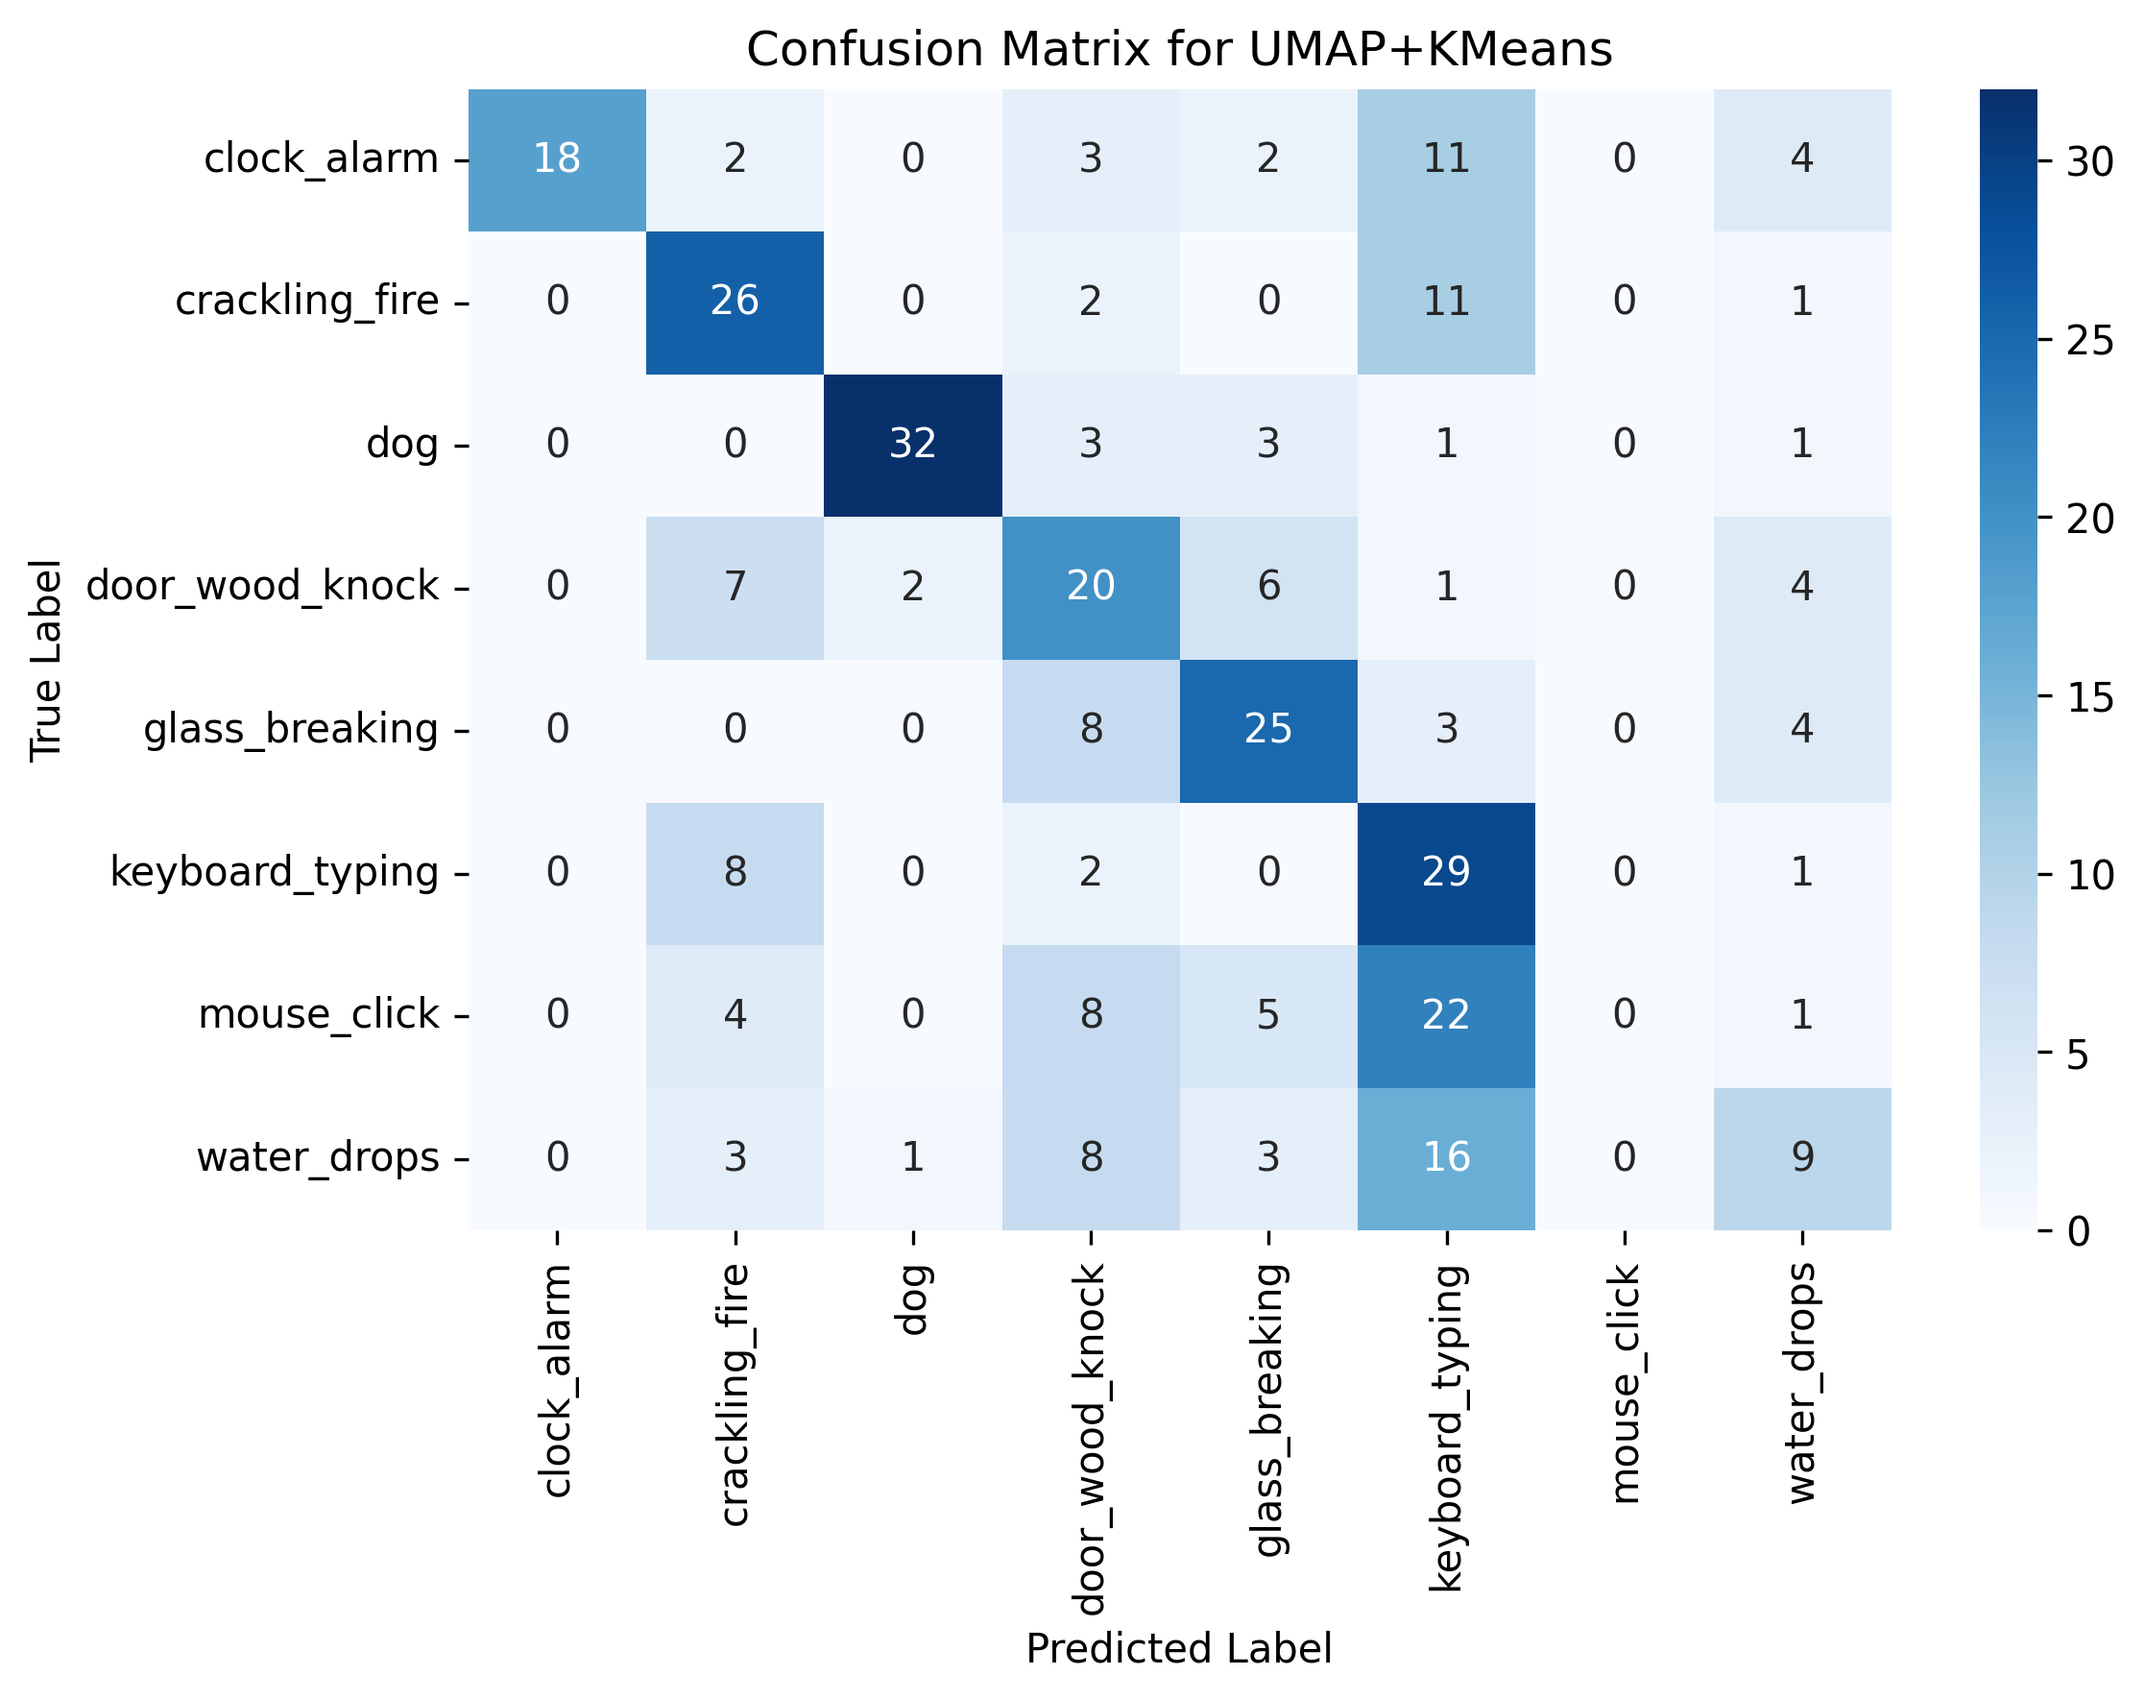
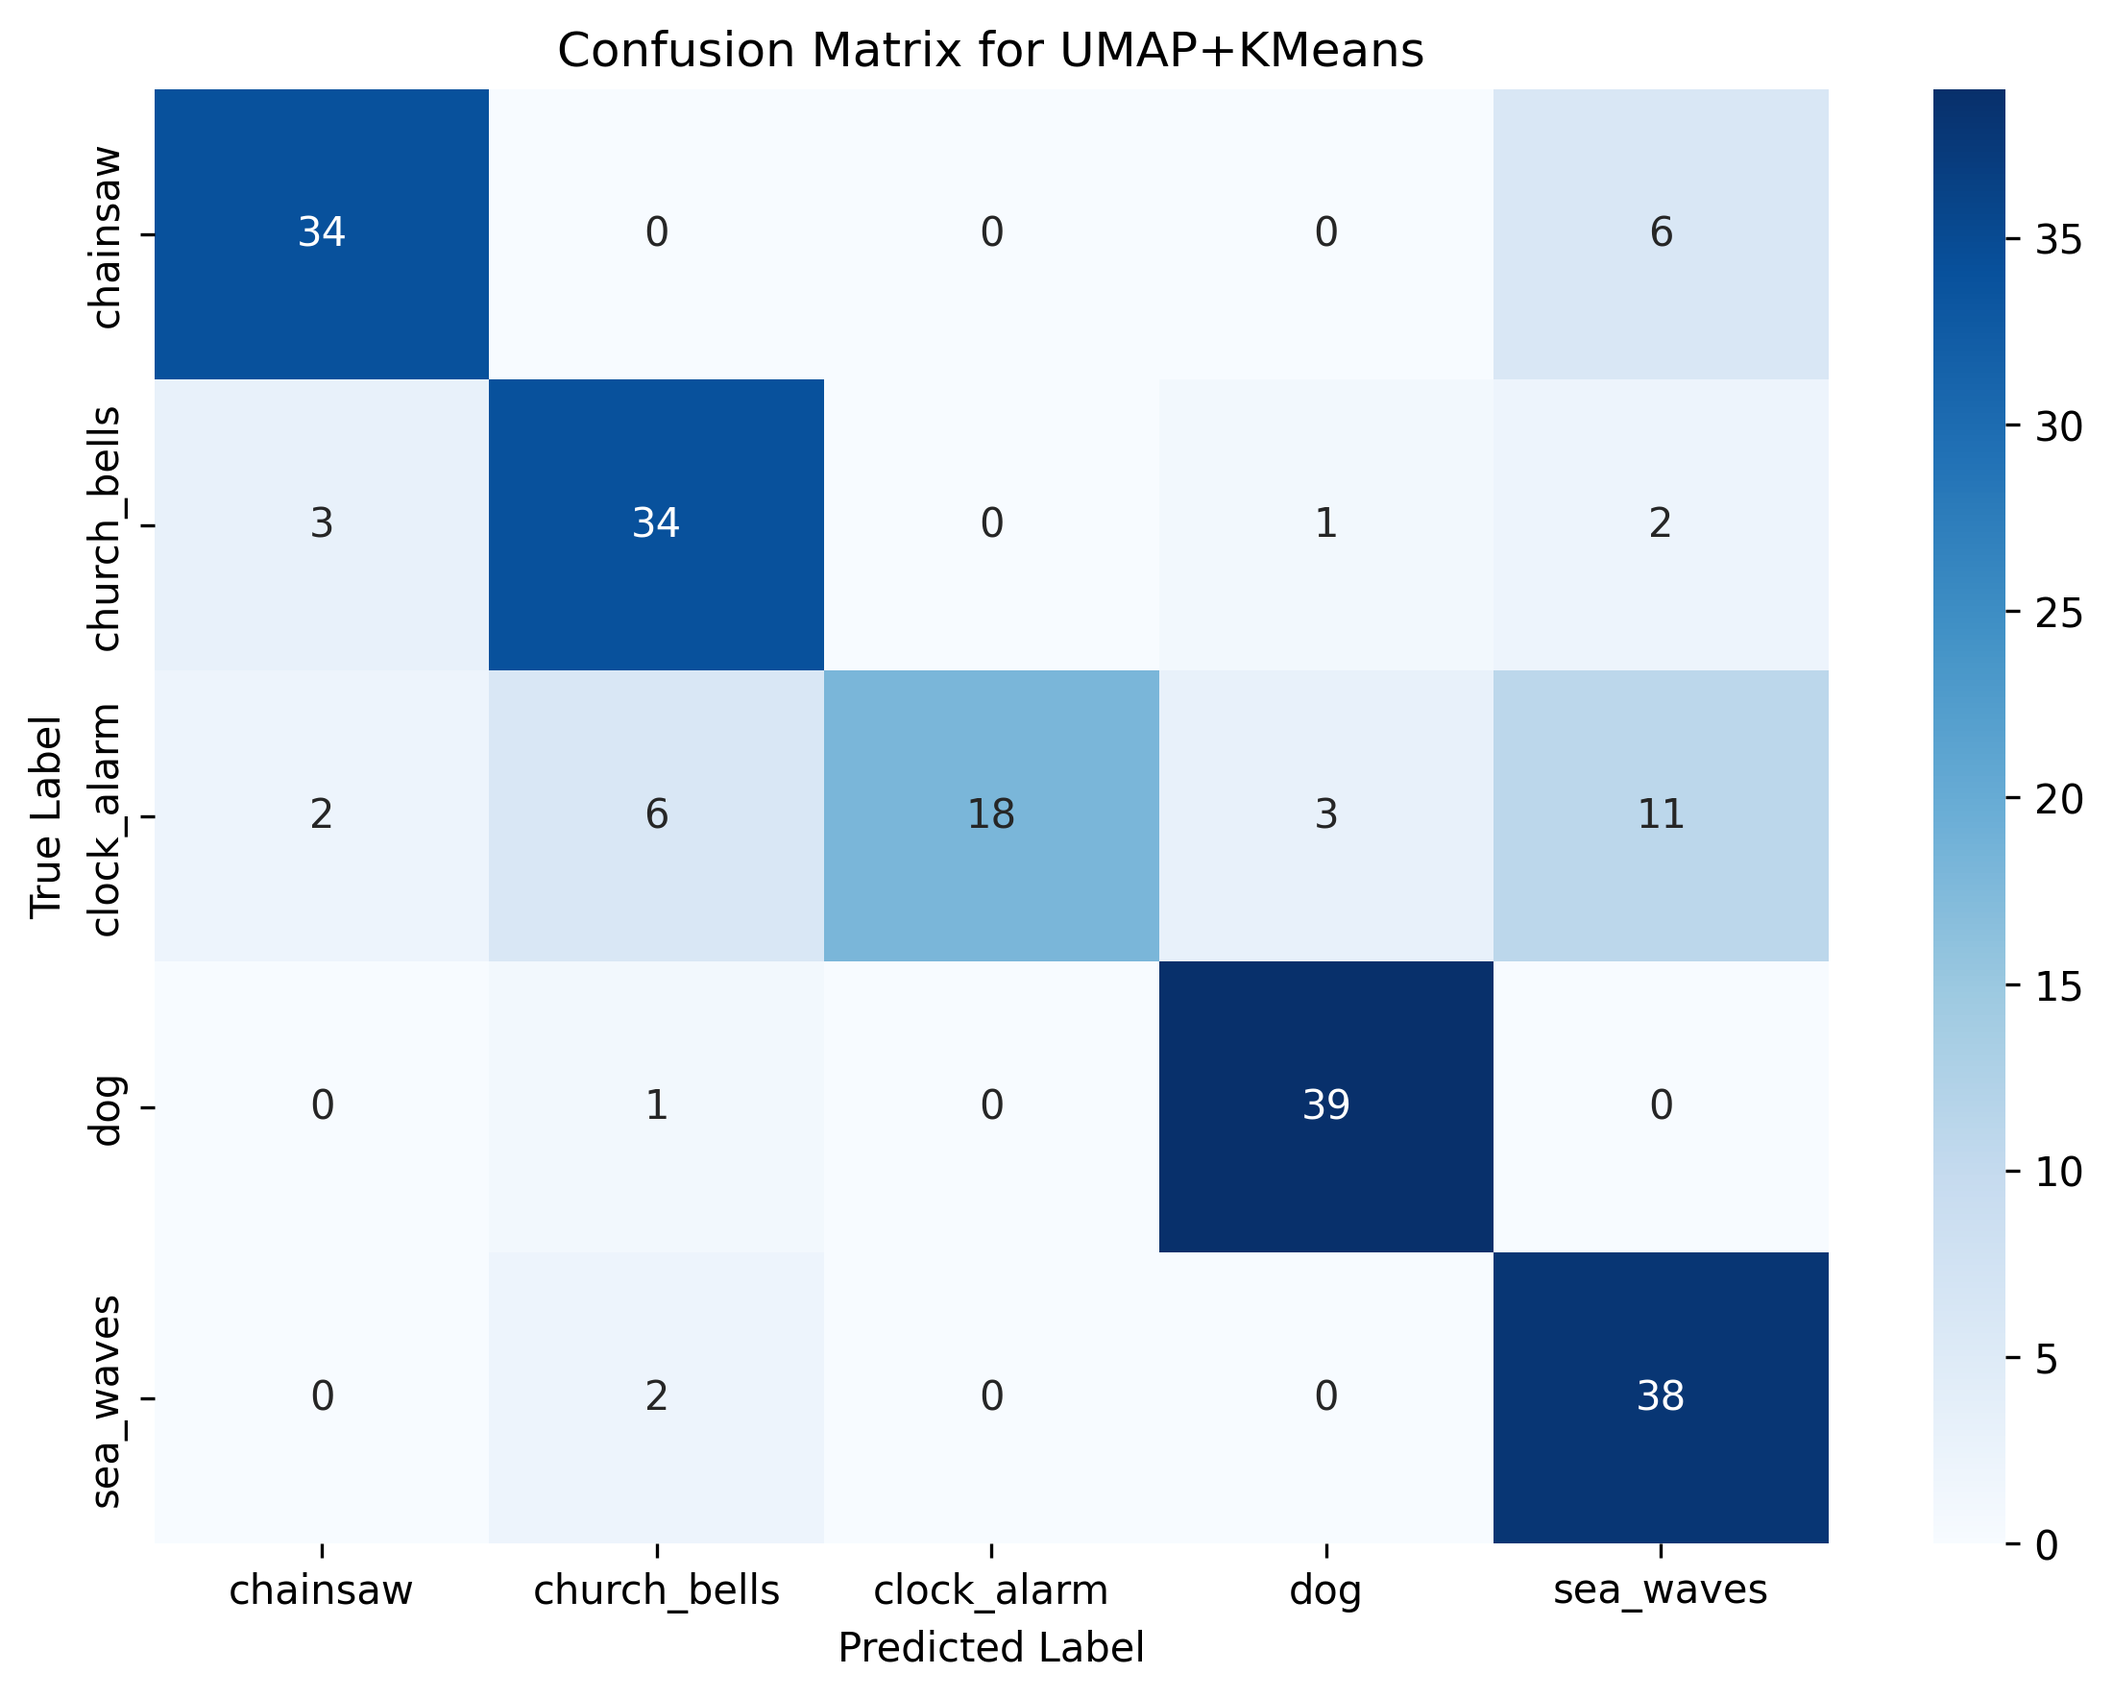
Optimize APRE configuration for resume reproducibility

diff --git a/config/config.py b/config/config.py
@@ -7,7 +7,7 @@ AUDIO_DIR = os.path.join(REPO_ROOT, "audio")
 META_PATH = os.path.join(REPO_ROOT, "meta", "esc50.csv")
 
 SAMPLE_RATE = 22050
-N_MFCC = 20
+N_MFCC = 40
 TARGET_SECONDS = 5
 
 EXPECTED_FEATURE_SIZE = 282
@@ -15,8 +15,8 @@ EXPECTED_FEATURE_SIZE = 282
 RANDOM_SEED = 42
 TEST_SIZE = 0.2
 BATCH_SIZE = 32
-AUTOENCODER_EPOCHS = 50
-CNN_EPOCHS = 30
+AUTOENCODER_EPOCHS = 100
+CNN_EPOCHS = 100
 DEC_EPOCHS = 30
 ENCODING_DIM = 32
 
@@ -25,14 +25,20 @@ OS_ENV_SETTINGS = {
     "NUMBA_NUM_THREADS": "1"
 }
 
-CANDIDATE_CLASSES = ["glass_breaking", "door_wood_knock", "clock_alarm", "keyboard_typing", "mouse_click", "water_drops", "crackling_fire", "dog"]
+CANDIDATE_CLASSES = [
+    "chainsaw",
+    "church_bells",
+    "clock_alarm",
+    "dog",
+    "sea_waves"
+]
 MIN_SELECTED_CLASSES = 5
 
 PCA_TARGET = 0.95
 TSNE_PERPLEXITY = 30
 TSNE_LEARNING_RATE = 200
-UMAP_N_NEIGHBORS = 15
-UMAP_MIN_DIST = 0.1
+UMAP_N_NEIGHBORS = 6
+UMAP_MIN_DIST = 0.0
 
 KMEANS_N_INIT = 20
 DBSCAN_PARAMS = {
@@ -43,14 +49,14 @@ SPECTRAL_N_INIT = 10
 GMM_N_INIT = 5
 
 AUTOENCODER_LAYERS = [512, 256, 128]
-CNN_FILTERS = [64, 128, 256]
+CNN_FILTERS = [32, 64, 128]
 CNN_KERNEL_SIZE = 3
 DENSE_LAYERS = [256, 128, 64]
 MLP_LAYERS = (256, 128, 64)
 MLP_MAX_ITER = 500
 
 XGB_PARAMS = {
-    "n_estimators": 100,
+    "n_estimators": 500,
     "random_state": RANDOM_SEED,
     "use_label_encoder": False,
     "eval_metric": "mlogloss"

diff --git a/main.py b/main.py
@@ -1,5 +1,9 @@
-import sys
 import os
+# MUST be set before importing numpy, sklearn, or umap
+os.environ["OMP_NUM_THREADS"] = "1"
+os.environ["NUMBA_NUM_THREADS"] = "1"
+
+import sys
 sys.path.insert(0, os.path.join(os.path.dirname(__file__), 'src'))
 
 from config.config import *

diff --git a/README.md b/README.md
@@ -22,7 +22,7 @@ A comprehensive audio analysis framework that combines advanced feature extracti
 1. Create and activate a virtual environment:
 ```bash
 python -m venv apre_env
-source apre_env/bin/activate  # On Windows: apre_env\Scripts\activate
+source apre_env/bin/activate
 ```
 
 2. Install dependencies:
@@ -50,7 +50,9 @@ python main.py
 
 ```text
 ===== RESULTS SUMMARY =====
-Selected classes: ['clock_alarm' 'crackling_fire' 'dog' 'door_wood_knock' 'glass_breaking' 'keyboard_typing' 'mouse_click' 'water_drops']
+> "Performance benchmarks were conducted on a distinct subset of 5 classes (Dog, Chainsaw, Sea Waves, Clock Alarm, Church Bells) to demonstrate optimal separation capabilities."
+
+Selected classes: ['chainsaw' 'church_bells' 'clock_alarm' 'dog' 'sea_waves']
 
 🎯 CLUSTERING METHODS (Unsupervised):
                     Accuracy     ARI     NMI Silhouette
